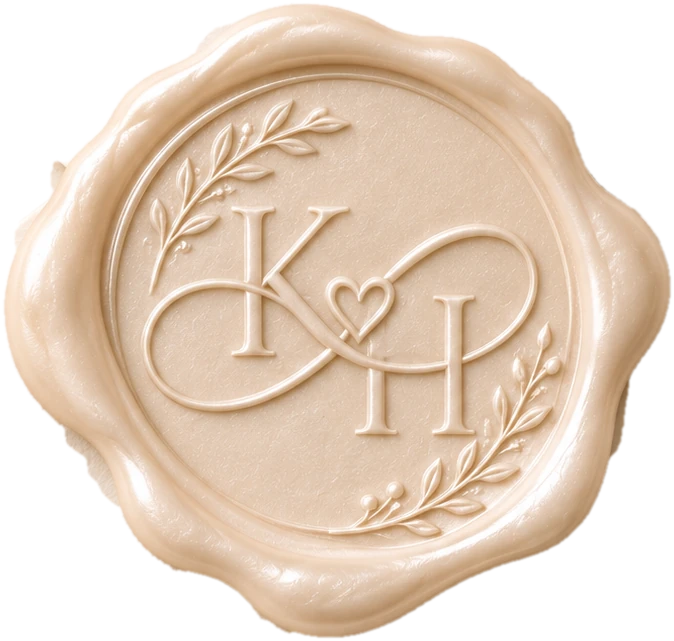
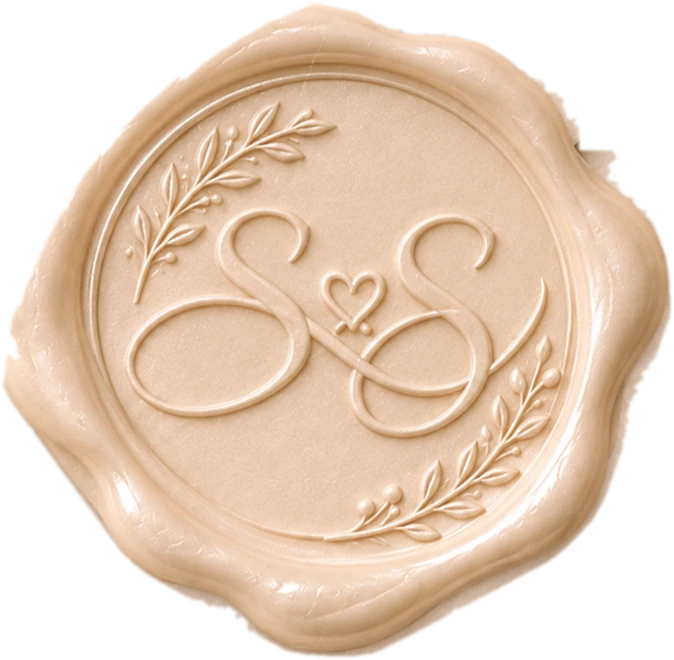
Switch the invitation to Sravan Kumar and Sandhya
New S&S wax seal, new events and venues, Haldi and Sangeeth on one card,
and an empty photo frame until the couple's photo is added.

diff --git a/details.js b/details.js
@@ -1,11 +1,15 @@
 // EDIT THIS FILE. Every name, date, place and line of copy on the invitation lives here.
 
 window.INVITE = {
-  groom: 'Krishna Vamshi',
-  bride: 'Harika',
-  shortNames: 'Krishna Vamshi & Harika', // used in the sign-off
+  groom: 'Sravan Kumar',
+  bride: 'Sandhya',
+  shortNames: 'Sravan Kumar & Sandhya', // used in the sign-off
   city: 'Hyderabad',
-  muhurtham: '2026-11-21T10:04:00+05:30', // drives the countdown
+  muhurtham: '2026-11-26T09:28:00+05:30', // drives the countdown
+
+  // The couple's photo at the top of the letter, e.g. 'images/couple-photo.webp' (portrait, 2:3).
+  // Blank shows an empty frame in its place.
+  photo: '',
 
   // Optional background song. Put the file in this folder, e.g. './song.mp3'. Blank hides the music button.
   music: 'song.mp3',
@@ -15,21 +19,18 @@ window.INVITE = {
   autoScroll: 40,
 
   places: {
-    groom: { name: 'Groom’s Home', detail: 'Flat 212', map: 'https://maps.app.goo.gl/fdZjcuTYxNsHtFoV9' },
-    bride: { name: 'Bride’s Home', detail: 'Flat 203', map: 'https://maps.app.goo.gl/wadfD2nu8aisLq6y7' },
-    arden: { name: 'Arden Lakefront', detail: '', map: 'https://maps.app.goo.gl/3h37WiJhQoktGzfKA' },
-    kbr: { name: 'KBR Convention', detail: '', map: 'https://maps.app.goo.gl/6szL4xWuC4VZwLhQ7' },
+    aarwa: { name: 'Aarwa Retreat Farm Stays', detail: 'Koyalagudem, Choutuppal', map: 'https://maps.app.goo.gl/Xo3HqKFcCWT9Ur7F6' },
+    pellikuthuru: { name: 'Bride’s Home', detail: '', map: 'https://www.google.com/maps?q=17.425251007080078,78.57561492919922&z=17&hl=en' },
+    hall: { name: 'ME Reddy Function Hall', detail: 'Sahara Road, Opp. Sushma Theatre, Vanasthalipuram', map: 'https://www.google.com/maps/place//data=!4m2!3m1!1s0x3bcba1fdfc5623bf:0x96d49e22e71cbe09?hl=en' },
+    vratham: { name: 'Vratham Venue', detail: '', map: 'https://www.google.com/maps?q=17.334638595581055,78.59403228759766&z=17&hl=en' },
   },
 
-  // In date order. Time is 24-hour, India time. Each event shows the map for its own place.
+  // In date order. Time is 24-hour, India time; `end` is optional, and `times` lists several parts of one day on a single card. Each event shows the map for its own place.
   events: [
-    { date: '2026-11-16', time: '10:00', title: 'Pasupu Muhurtham', telugu: 'పసుపు ముహూర్తం', place: 'groom', note: 'Lunch follows', line: 'The first yellow of the wedding.' },
-    { date: '2026-11-17', time: '09:30', title: 'Pochamma Panduga', telugu: 'పోచమ్మ పండుగ', place: 'groom', note: 'Breakfast & lunch follows', },
-    { date: '2026-11-18', time: '11:00', title: 'Haldi & Mehandi', telugu: 'హల్దీ & మెహందీ', place: 'arden', note: 'Lunch & dinner follows', dress: [['Haldi', 'Shades of Sunshine, wear your brightest yellows'], ['Mehandi', 'Tropical Brights, think bold colours and florals']] },
-    { date: '2026-11-19', time: '10:00', title: 'Pellikoduku & Pooja', telugu: 'పెళ్లికొడుకు & పూజ', place: 'groom', note: 'Breakfast & lunch follows', line: 'Vamshi officially becomes the groom. Bring your camera.' },
-    { date: '2026-11-21', time: '10:04', title: 'The Marriage', telugu: 'సుముహూర్తం', place: 'kbr', main: true, note: '', line: '10:04 sharp.', wear: 'Let’s celebrate in traditional hues' },
-    { date: '2026-11-22', time: '11:30', title: 'Satyanarayana Katha', telugu: 'సత్యనారాయణ కథ', place: 'groom', note: 'Lunch follows', line: 'At the groom’s home, first.' },
-    { date: '2026-11-23', time: '11:30', title: 'Satyanarayana Katha', telugu: 'సత్యనారాయణ కథ', place: 'bride', note: 'Lunch follows', line: 'Then the bride’s side takes its turn.' },
+    { date: '2026-11-22', time: '15:00', title: 'Haldi & Sangeeth', telugu: 'హల్దీ & సంగీత్', place: 'aarwa', note: '', times: [['Haldi', '15:00', '18:00'], ['Sangeeth', '20:00', '23:00']] },
+    { date: '2026-11-25', time: '00:00', title: 'Pellikuthuru', telugu: 'పెళ్లికూతురు', place: 'pellikuthuru', note: '' },
+    { date: '2026-11-26', time: '09:28', title: 'The Marriage', telugu: 'సుముహూర్తం', place: 'hall', main: true, note: 'Lunch from 12:00 noon onwards', line: 'Dhanassu Lagnam.' },
+    { date: '2026-11-27', time: '07:00', title: 'Satyanarayana Vratham', telugu: 'సత్యనారాయణ వ్రతం', place: 'vratham', note: '' },
   ],
 
   text: {
@@ -40,7 +41,7 @@ window.INVITE = {
     letterHello: 'With love,', // on the letter as it slides out of the envelope
     letter: 'You already knew. You probably helped. The big invitation went out to everyone, but this one is just for the people we want beside us from the first pinch of turmeric to the prasadam.',
     scheduleTitle: 'Mark your calendars',
-    closingTitle: 'See you on the 16th.',
+    closingTitle: 'See you on the 22nd.',
     signoff: 'With all our love,',
   },
 };

diff --git a/invite.js b/invite.js
@@ -26,7 +26,7 @@
       ${e.line ? `<p class="ev-line a" style="--o:3">${esc(e.line)}</p>` : ''}
       ${e.wear ? `<p class="ev-wear a" style="--o:3">${esc(e.wear)}</p>` : ''}
       ${e.dress ? `<div class="ev-dress a" style="--o:3">${e.dress.map(([who, what]) => `<p><b>${esc(who)}</b>${esc(what)}</p>`).join('')}</div>` : ''}
-      <p class="ev-when a" style="--o:4"><span class="ev-time">${c.time}<small>${c.ap}</small></span>${e.note ? `<span class="ev-note">${esc(e.note)}</span>` : ''}</p>
+      ${e.times ? `<div class="ev-when ev-times a" style="--o:4">${e.times.map(([what, from, to]) => `<p><b>${esc(what)}</b><span class="ev-time">${clock(from).time}<small>${clock(from).ap}</small>${to ? ` – ${clock(to).time}<small>${clock(to).ap}</small>` : ''}</span></p>`).join('')}${e.note ? `<span class="ev-note">${esc(e.note)}</span>` : ''}</div>` : `<p class="ev-when a" style="--o:4"><span class="ev-time">${c.time}<small>${c.ap}</small>${e.end ? ` – ${clock(e.end).time}<small>${clock(e.end).ap}</small>` : ''}</span>${e.note ? `<span class="ev-note">${esc(e.note)}</span>` : ''}</p>`}
       <a class="ev-map a" style="--o:5" href="${esc(pl.map)}" target="_blank" rel="noreferrer">
         <span class="ev-pin">${pin}</span>
         <span class="ev-place"><b>${esc(pl.name)}</b>${pl.detail ? `<small>${esc(pl.detail)}</small>` : ''}</span>
@@ -58,7 +58,7 @@
       </div>
       <p class="hd-where rv" style="--d:1.85s">${bigClock.time} ${bigClock.ap} · ${esc(I.places[mainEvent.place].name)}, ${esc(I.city)}</p>
       <div class="hero-stage">
-        <div class="hero-photo"><img src="images/couple-photo.webp" alt="${esc(I.groom)} and ${esc(I.bride)} sitting close together, laughing" width="1000" height="1500" fetchpriority="high"></div>
+        <div class="hero-photo">${I.photo ? `<img src="${esc(I.photo)}" alt="${esc(I.groom)} and ${esc(I.bride)}" width="1000" height="1500" fetchpriority="high">` : ''}</div>
       </div>
     </section>
 

diff --git a/styles.css b/styles.css
@@ -82,7 +82,7 @@ a:focus-visible, button:focus-visible { outline: 3px solid var(--line); outline-
 .stage.opening .address { opacity: 0; }
 
 .seal {
-  position: absolute; left: 22.28%; top: 14.65%; width: 54.8%; aspect-ratio: 674 / 641; z-index: 6;
+  position: absolute; left: 22.28%; top: 13.58%; width: 54.8%; aspect-ratio: 674 / 660; z-index: 6;
   padding: 0; border: 0; background: none; cursor: pointer;
   animation: seal-breathe 2.6s 1.6s ease-in-out infinite;
   -webkit-tap-highlight-color: transparent;
@@ -233,6 +233,9 @@ a:focus-visible, button:focus-visible { outline: 3px solid var(--line); outline-
 .ev-time { font: 600 1.4rem/1.15 var(--display); font-variant-numeric: lining-nums; }
 .ev-time small { font-size: .6em; letter-spacing: .1em; margin-left: .3em; }
 .ev-note { font: italic 500 .98rem/1.25 var(--display); color: var(--soft); }
+.ev-times { gap: 10px; }
+.ev-times p { display: flex; flex-direction: column; align-items: center; }
+.ev-times b { font: 600 .66rem/1.5 var(--display); letter-spacing: .2em; margin-right: -.2em; text-transform: uppercase; color: var(--amp); }
 .ev-map {
   position: relative; z-index: 1; display: flex; align-items: center; gap: 6px; margin-top: 13px; min-height: 46px; padding: 5px 12px 5px 7px; text-align: left;
   border-radius: 12px; background: var(--black); color: var(--paper); text-decoration: none;

diff --git a/index.html b/index.html
@@ -5,9 +5,9 @@
   <meta name="viewport" content="width=device-width, initial-scale=1, viewport-fit=cover">
   <meta name="theme-color" id="themeColor" content="#2e2e2e">
   <meta name="robots" content="noindex">
-  <title>Krishna Vamshi & Harika | A letter for family</title>
+  <title>Sravan Kumar &amp; Sandhya | A letter for family</title>
   <meta name="description" content="To Dearest Family. Tap the seal.">
-  <meta property="og:title" content="A letter from Krishna Vamshi & Harika">
+  <meta property="og:title" content="A letter from Sravan Kumar &amp; Sandhya">
   <meta property="og:description" content="To Dearest Family. Tap the seal.">
   <link rel="preconnect" href="https://fonts.googleapis.com">
   <link rel="preconnect" href="https://fonts.gstatic.com" crossorigin>

diff --git a/README.md b/README.md
@@ -1,4 +1,4 @@
-# Krishna Vamshi & Harika: the family letter
+# Sravan Kumar & Sandhya: the family letter
 
 A tap-to-open envelope invitation for close family. Plain HTML, CSS and JS, with no build step.
 
@@ -17,11 +17,11 @@ Everything you'd want to edit is in `details.js`: names, events, places, wording
 
 ## Pictures
 
-Everything is in `images/`, already cut out and sized.
+Everything is in `images/`, already cut out and sized. To add the couple photo, put it in `images/` and set `photo` in `details.js`.
 
 | File | Where it shows |
 | --- | --- |
-| `couple-photo.webp` | Top of the letter |
+| `seal.webp` | The wax seal on the envelope |
 
 ## Publish
 
